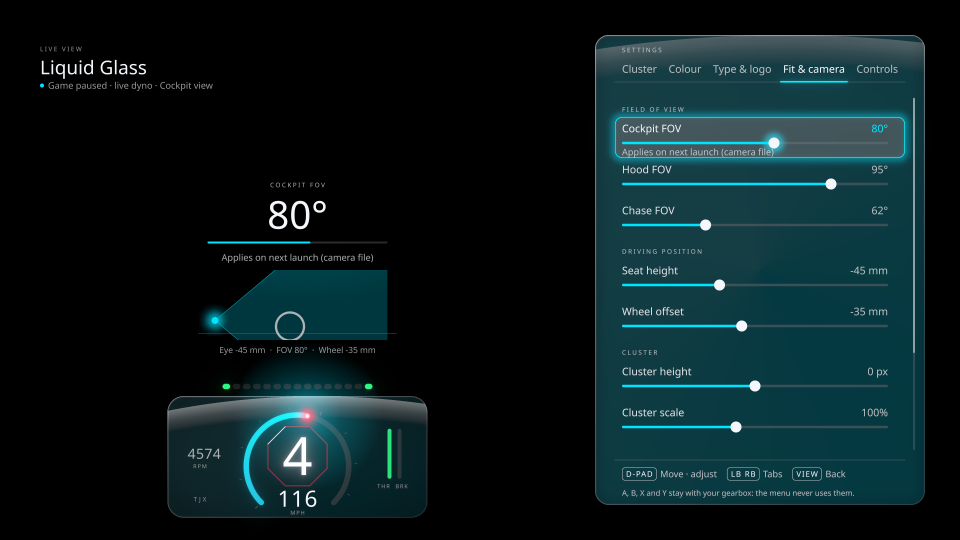
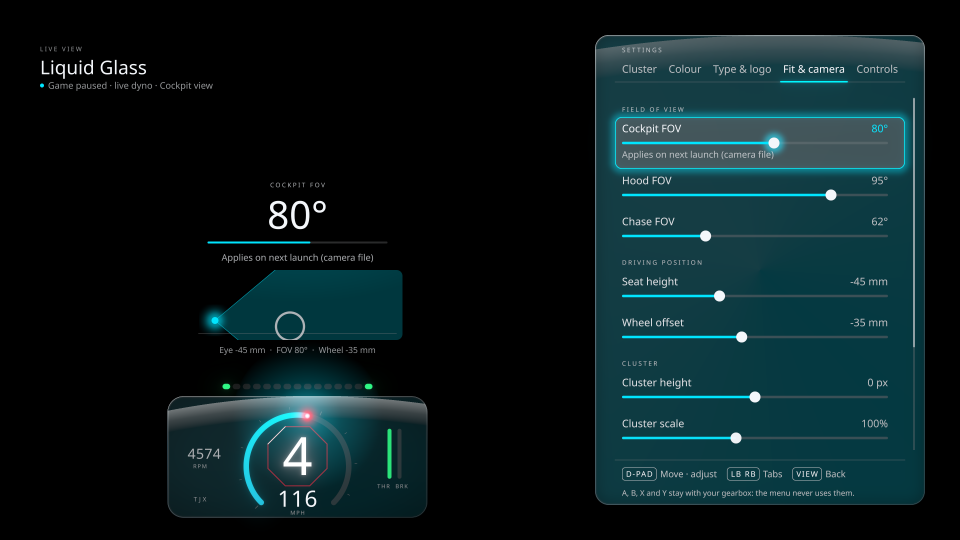
Phase 9: critique round 2 pass, fresh GPU numbers, OSD spec, board, FIGMA and AGENTS updates

Changed region(s): [[0.625, 0.2667, 0.9688, 0.8296], [0.4062, 0.5037, 0.4375, 0.6222]]

diff --git a/docs/design/boards/osd/index.html b/docs/design/boards/osd/index.html
@@ -23,7 +23,7 @@ code{color:var(--accent)}
 <p>The controller-first Liquid Glass OSD: the real selected cluster live on the left (live dyno while the game is paused, live telemetry when it flows), a glass control panel on the right, five tabs on LB/RB. Extends the Phase 3 direction (<a href="../../OSD_DIRECTION.md" style="color:var(--accent)">OSD_DIRECTION.md</a>). Spec: <a href="../../OSD.md" style="color:var(--accent)">OSD.md</a>.</p>
 </header>
 
-<h2>States (4K renders, GPU 1.18–1.32 ms each)</h2>
+<h2>States (4K renders, GPU 1.28–1.48 ms each)</h2>
 <div class="grid">
 <figure><img src="../../osd/01_cluster_carousel.png" alt="Cluster tab with carousel"><figcaption>Cluster · carousel of live thumbnails, focus echo in the live zone</figcaption></figure>
 <figure><img src="../../osd/02_cluster_hood_view.png" alt="Editing the hood view"><figcaption>Cluster · editing the Hood view (the live view follows)</figcaption></figure>
@@ -44,7 +44,7 @@ code{color:var(--accent)}
 <tr><td>Panel</td><td>x 2380–3700, y 140–2020, radius 56; right-aligned on wider screens. Glass tint alpha 64, frost 0.9, backdrop σ 28, crown sheen 28/255 ending above the tabs, OLED black 0.62 underneath.</td></tr>
 <tr><td>Text edge / value edge</td><td>One left text edge at 2488; every value, slider track and toggle ends at 3552; chevrons in the gutter to 3592.</td></tr>
 <tr><td>Tabs</td><td>Cap 30 (floor 26), y 276; accent underline 6 px on the <code>fast</code> spring, blooming.</td></tr>
-<tr><td>Rows</td><td>116 px (sliders 164, carousel 340, info 124); section headings 18 cap caps +24% tracking, 76 px above. Labels and values 30 cap; help 26 cap.</td></tr>
+<tr><td>Rows</td><td>116 px (sliders 164, carousel 340, info 124); the focused row grows to 148 (sliders 208) when it shows help; section headings 18 cap caps +24% tracking, 76 px above. Labels and values 30 cap; help 26 cap.</td></tr>
 <tr><td>Focus</td><td>White 0.07 lift, 3 px accent inner rim in a bloom layer, glow σ 14. Accent = palette accent unless within 25° of the warning red, then primary, then sapphire.</td></tr>
 <tr><td>Live zone</td><td>"LIVE VIEW" label, cluster name 54 cap, status 26 cap; focus echo: label 18 caps, value 110 cap, slider mirror 720 px, help 26 cap. Feathered black pools behind the echo (0.45) and the cluster (0.35).</td></tr>
 <tr><td>Hint bar</td><td>Keycaps 22 cap in 52 px chips, text 26 cap at y 1896; the gearbox line 22 cap at 1972.</td></tr>

diff --git a/AGENTS.md b/AGENTS.md
@@ -19,11 +19,11 @@ Read with: [ONBOARDING.md](ONBOARDING.md) (read first in every chat), [program/R
 | `crates/fh6-render` | Theme dispatch (camera 3 → cockpit, camera 4 → hood), layout kit, tokens, text, asset cache, OEM scrim and ambient wash | fh6-core, tiny-skia |
 | `crates/fh6-clusters` | The cluster registry (`registry::REGISTRY`, contract v2), kit clusters (`kit/`), shared components (`common/`), and the 29 v1 tiny-skia clusters behind `LegacyClusterRenderer` | fh6-core, fh6-kit, fh6-render |
 | `crates/fh6-kit` | GPU render kit: `Painter`, SDF shapes, paints, bloom, blur, Liquid Glass, MTSDF text, springs, palette engine, token binding, 2.5D camera, glTF mesh pass, fluid, particles, noise, `Cluster` / `FrameInput` / `Layout`; native and WebGPU | fh6-core, wgpu |
-| `crates/fh6-osd` | Unified OSD (4 tabs, live dyno preview, config binding, hold toggle) | fh6-core, fh6-render, fh6-clusters |
-| `crates/fh6-input` | XInput dynamic loading (System32 only, ordinal 100 for Guide), 125 Hz poller thread, button tracker, the single `HoldToggle`, Guide edge detection | fh6-core, `windows` |
-| `crates/fh6-win` | Overlay window (DirectComposition target, click-through, topmost), app message window + tray, foreground hook, quit signal, monitor/DPI, single instance, process list, DWM timing, screen capture, camera INI/XML patcher, `car_brands.json` binding | fh6-core, `windows`, raw-window-handle |
+| `crates/fh6-osd` | Controller-first Liquid Glass OSD (Phase 9, spec `docs/design/OSD.md`): 5-tab row model, navigation state machine, on-screen keyboard, button remapper, live view host and carousel thumbnails drawn with the kit, auto-pause (behind a `KeyboardInjector` trait), debounced config saver, live dyno, cockpit-fit seam | fh6-core, fh6-render, fh6-clusters, fh6-kit |
+| `crates/fh6-input` | XInput dynamic loading (System32 only, ordinal 100 for Guide), 125 Hz poller thread, button tracker, the single `HoldToggle` (suspended while the OSD has focus), press/release latches for the OSD, Guide edge detection, scripted pad (`--pad-script`) | fh6-core, `windows` |
+| `crates/fh6-win` | Overlay window (DirectComposition target, click-through, topmost), app message window + tray, foreground hook, quit signal, monitor/DPI, single instance, process list, DWM timing, screen capture, camera INI/XML patcher, `car_brands.json` binding, `SendInput` key taps (the OSD auto-pause ESC) | fh6-core, `windows`, raw-window-handle |
 | `crates/fh6-gpu` | wgpu 30 DX12 device, premultiplied overlay surface, offscreen target, `render_with` presentation for the kit, Phase 4 quad pipeline and test cluster (ADR 0001) | wgpu, bytemuck |
-| `crates/fh6-app` | Binaries `FH6_WheelDash` and `FH6_SteamLauncher`: thread wiring, render loop, latency stats and `--bench-seconds` report, args, launcher plan, remapper, status server (no `unsafe`) | all crates |
+| `crates/fh6-app` | Binaries `FH6_WheelDash` and `FH6_SteamLauncher`: thread wiring, render loop, latency stats and `--bench-seconds` report, args, launcher plan, OSD wiring (the remapper moved to fh6-osd), status server (no `unsafe`) | all crates |
 | `tools/preview-export` | Headless 4K GPU renders of every kit cluster × 4 states, thumbnails, measured badges, scrim and OSD → `mockups/` (`--legacy` adds the v1 clusters) | core, kit, gpu, clusters, render, osd |
 | `tools/mock-udp` | Synthetic telemetry sender (`--scenario` incl. `menu_pause`, `--port`, `--duration`, `--rate-hz`, `--race-on 0` or `1`) | std only |
 | `tools/parity-dump` | Decodes `tests/golden/packets/*.bin` and compares against the `.json` | fh6-core |
@@ -109,8 +109,8 @@ Known red before any new work: none since Phase 4 (see `docs/PROGRESS.md`). Chec
   - **Wheel-less Cockpit `[3]`:** the cluster sits in the black steering-column gap, anchored at `(1920, 1835)` in 4K. The in-car 3D factory binnacle behind it is masked by the domed OEM scrim (`OemDashOpaquePct`, 0–100%), so two dials never fight for attention.
   - **Hood `[4]`:** reached by pressing `RB` from `[3]`, anchored at `(1920, 1760)`. The scrim is forced to 0%, and `BonnetHudStyle` (default `Gt7HoodPro`) takes over: a wider, lower, frameless swept tach, a central gear/speed pod, 4-corner tyre-slip bars and a G meter.
 - **Translucent OLED OSD:**
-  - Opening it pauses the game (ESC via `SendInput` while `IsRaceOn == 1`) and shows a glass OSD (alpha 28..45) in the upper viewport. The live cluster keeps animating at the bottom, driven by the dyno preview.
-  - Toggle: hold View `0x0020` for 400 ms by default (`osd_toggle_mask`, `osd_hold_ms`), remappable in OSD tab 3.
+  - Opening it pauses the game (ESC via `SendInput` while `IsRaceOn == 1`, the game is in front and auto-pause is on) and shows the full-screen OSD (`docs/design/OSD.md`): the real cluster live on the left, driven by the dyno preview, and a glass control panel on the right.
+  - Toggle: hold View `0x0020` for 400 ms by default (`osd_toggle_mask`, `osd_hold_ms`), remappable in the OSD Controls tab.
   - Navigate only with the D-pad and LB/RB, never A/B/X/Y.
 
 ## Agent 2: Principal Rust Systems, Win32/XInput & Real-Time Graphics Engineer (`@Rust_Systems_Lead`)

diff --git a/docs/perf/osd.md b/docs/perf/osd.md
@@ -8,7 +8,7 @@ Target (Phase 9 MASTER_PROMPT): under 1.5 ms GPU for the whole OSD at 4K.
 
 | Item | Result | Target |
 |---|---|---|
-| GPU, whole OSD frame (live cluster, glass panel, rows, focus bloom, underlay dim, scrims) | 1.18–1.32 ms median over the 11 states; carousel (with 5 live thumbnails) 1.32 ms | < 1.5 ms: **met** |
+| GPU, whole OSD frame (live cluster, glass panel, rows, focus bloom, underlay dim, scrims) | 1.28–1.48 ms median over the 11 states; carousel (with 5 live thumbnails) 1.37 ms, FOV schematic 1.48 ms | < 1.5 ms: **met** (06 has 0.02 ms headroom) |
 | GPU, same frames before the optimisations below | 3.2 ms (8.0 ms with the carousel) | |
 | CPU per frame, OSD open (`--demo --open-osd`, 12 s) | 0.99 ms p50, 2.24 ms p99 | < 1 ms: **p50 met, p99 not met** |
 | CPU per frame, dash only (same run conditions) | 0.76 ms p50, 1.48 ms p99 | Phase 4/5 debt (p99) |
@@ -18,21 +18,21 @@ The extra CPU with the OSD open is almost all `Kit::render` packing and wgpu rec
 
 ## GPU per state (generated by `preview-export`)
 
-Whole-frame GPU time from timestamp queries around every pass (shape passes, glass backdrop, bloom, resolve). 100 frames are submitted back to back first so the laptop GPU clocks up, then 20 frames are timed one by one. Median and minimum in ms. One run, GPU at 10% load from other work. 3 layer segments per frame (live cluster glass, panel glass), 27 draw calls (35 with the carousel).
+Whole-frame GPU time from timestamp queries around every pass (shape passes, glass backdrop, bloom, resolve). 100 frames are submitted back to back first so the laptop GPU clocks up, then 20 frames are timed one by one. Median and minimum in ms. One run after the critique round 2 fixes (taller focused rows with help, a 1400 px schematic), GPU idle (1%, 32 W) before the run. 3 layer segments per frame (live cluster glass, panel glass), 27 draw calls (35 with the carousel).
 
 | State | GPU median | GPU min | draws |
 |---|---|---|---|
-| 01 Cluster tab, carousel focused | 1.322 | 1.228 | 35 |
-| 02 Cluster tab, editing the Hood view | 1.225 | 1.210 | 35 |
-| 03 Colour, custom, hue slider | 1.232 | 1.181 | 27 |
-| 04 Colour, random | 1.200 | 1.170 | 27 |
-| 05 Type & logo | 1.197 | 1.166 | 27 |
-| 06 Fit & camera, FOV + schematic | 1.303 | 1.257 | 27 |
-| 07 Fit & camera, cluster height | 1.204 | 1.194 | 27 |
-| 08 Fit & camera, dash blocker (scrolled) | 1.265 | 1.202 | 27 |
-| 09 Controls | 1.180 | 1.176 | 27 |
-| 10 On-screen keyboard | 1.195 | 1.186 | 27 |
-| 11 Remap capture | 1.185 | 1.181 | 27 |
+| 01 Cluster tab, carousel focused | 1.373 | 1.274 | 35 |
+| 02 Cluster tab, editing the Hood view | 1.359 | 1.324 | 35 |
+| 03 Colour, custom, hue slider | 1.311 | 1.242 | 27 |
+| 04 Colour, random | 1.303 | 1.247 | 27 |
+| 05 Type & logo | 1.298 | 1.232 | 27 |
+| 06 Fit & camera, FOV + schematic | 1.478 | 1.417 | 27 |
+| 07 Fit & camera, cluster height | 1.283 | 1.231 | 27 |
+| 08 Fit & camera, dash blocker (scrolled) | 1.313 | 1.257 | 27 |
+| 09 Controls | 1.303 | 1.238 | 27 |
+| 10 On-screen keyboard | 1.286 | 1.217 | 27 |
+| 11 Remap capture | 1.276 | 1.223 | 27 |
 
 **Measurement caveat.** This GPU is shared with other work on the machine. During one session another process held it at 98% (127 W, 87 °C) and the same frames read 2.3–3.5 ms; with the GPU at 11–16% they read as above. `preview-export` now prints the minimum next to the median so contention is visible: when the two are close (as in the table), the number is clean.
 
@@ -42,7 +42,7 @@ Whole-frame GPU time from timestamp queries around every pass (shape passes, gla
 2. **The dim moved into the resolve.** A full-screen black shape blends into two HDR work targets at 4K (about 0.9 ms). The new `Kit::set_underlay(alpha)` clears the target to premultiplied black and composites it under everything in the resolve pass the frame already runs: 1.64 → 0.76 ms with otherwise identical content.
 3. **Warm-up before timing.** Timing single frames that each wait for readback let the laptop GPU drop clocks between frames (2–6 ms noise). Burst first, then time.
 
-With the panel's own backdrop blur kept (the brief asks for blur behind the panel), the critique's legibility fixes (black under the panel, feathered scrims behind the focus echo and the live cluster) and bloom on the focus ring and tab underline, the frame settles at 1.18–1.32 ms.
+With the panel's own backdrop blur kept (the brief asks for blur behind the panel), the critique's legibility fixes (black under the panel, feathered scrims behind the focus echo and the live cluster) and bloom on the focus ring and tab underline, the frame settled at 1.18–1.32 ms. The round 2 fixes (the focused row grows to hold its help line, and the schematic is wider) moved it to 1.28–1.48 ms. The FOV schematic state (06) is the most expensive, with little headroom; its wedge and scrim are the first things to trim if a later phase adds to the OSD.
 
 Measured costs of individual pieces (back-to-back A/B on an idle GPU): panel backdrop blur 0.25 ms, bloom 0.2 ms, panel black base 0.07 ms, both scrims about 0.2 ms.
 

diff --git a/docs/design/OSD.md b/docs/design/OSD.md
@@ -6,7 +6,7 @@ Figma: the page could not be built. The remote Figma MCP answered `get_metadata`
 
 ## Layout
 - **Live zone (left, about 60%).** The real selected cluster at its real height and scale, gliding from its normal anchor to the live-zone centre (`(2380 + extra width) / 2`) when the OSD opens. Header: "LIVE VIEW", the cluster name, and the data source ("Game paused · live dyno" or "Live telemetry") with the edited view. Under the header, a **focus echo**: the focused row's label and value in 110 px type, a slider mirror, the row's help line. Camera rows add a side-view schematic (eye at seat height, FOV wedge, wheel); cluster height adds a dashed default-height line.
-- **Panel (right).** Glass at x 2380–3700, y 140–2020, radius 56, right-aligned on wider screens. Five tabs: Cluster · Colour · Type & logo · Fit & camera · Controls. Rows scroll on a spring and fade at the viewport edges. Hint bar and the gearbox line at the bottom.
+- **Panel (right).** Glass at x 2380–3700, y 140–2020, radius 56, right-aligned on wider screens. Five tabs: Cluster · Colour · Type & logo · Fit & camera · Controls. Rows are 116 px (sliders 164, carousel 340, info 124); the focused row grows to 148 px (sliders 208) when it has a help line, so the help sits inside the focus ring. Rows scroll on a spring and fade at the viewport edges. Hint bar and the gearbox line at the bottom.
 - **Dim.** The game is dimmed 62% through the kit underlay. The direction asked for about 45% plus a blur; the overlay cannot blur a game it does not capture, so it dims harder and adds feathered black pools behind the echo (45%) and the live cluster (35%).
 
 ## Rows
@@ -31,4 +31,4 @@ D-pad moves and adjusts (repeat after 280 ms, every 65 ms, every 25 ms after 900
 Open 200 ms (fade and a 64 px slide), cluster glide on the `default` spring, focus ring and tab underline on `fast`, scroll on `default`, a 150 ms crossfade on a tab change.
 
 ## Critique
-Round 1 (independent `ui-ux-designer` review of the renders): fail, with six must-fixes. Text below the 26 px floor, the backdrop on bright frames, rows hard-clipped by the scroll viewport, a ragged value edge, the crown sheen behind the header, and the missing font pack. All six were fixed or waived (fonts: see PROGRESS). Round 2 result and the carried-over items are in `program/phases/09-osd/HANDOVER.md`.
+Round 1 (independent `ui-ux-designer` review of the renders): fail, with six must-fixes. Text below the 26 px floor, the backdrop on bright frames, rows hard-clipped by the scroll viewport, a ragged value edge, the crown sheen behind the header, and the missing font pack. All six were fixed or waived (fonts: see PROGRESS). Round 2: one must-fix, the help line overlapping the focus ring on focused rows. The focused row now grows to hold it (above). Re-review of 02, 06 and 07: **pass** for the Phase 9 exit. Carried over (not blocking): a check over the real pause menu, LB/RB chips in the tab row, the blocker outline preview, a live preview of the draft name. See `program/phases/09-osd/HANDOVER.md`.

diff --git a/docs/design/FIGMA.md b/docs/design/FIGMA.md
@@ -63,6 +63,8 @@ The HTML boards therefore stay the source of truth. Still to do, in order:
 3. **Page `1:5`:** the OSD and configurator direction frames (`docs/design/directions/*.png`), the scrim-fit frames (`docs/design/scrim/*.png`), and one Section per catalog row for Phase 7.
 4. **Mirror tokens v3.2** into the Palette and Roles variables.
 
+**Phase 9 retry (2026-11-22):** the remote MCP answered `get_metadata` once, then returned the same Starter-plan tool-call limit on the first `use_figma` call, so the OSD page could not be built. Add to the list above: 5. **Page `1:5`, OSD:** the 11 renders in `docs/design/osd/` with the grid, type and navigation tables from [boards/osd/index.html](boards/osd/index.html).
+
 Unblock by upgrading the Figma plan (Professional removes the 3-page and 1-mode limits and raises the MCP cap) or by waiting for the cap to reset; the conductor or the Phase 7 setup chat can then run steps 1–4.
 
 ## HTML boards (authoritative visuals)
@@ -72,6 +74,7 @@ Unblock by upgrading the Figma plan (Professional removes the 3-page and 1-mode 
 | `boards/families/` | 7 template boards | `docs/design/families/<family>-template.png` |
 | `boards/scrim/` | 3 scrim-fit boards over `assets/reference/*.jpg` | `docs/design/scrim/*.png` |
 | `boards/directions/` | OSD and configurator directions | `docs/design/directions/*.png` |
+| `boards/osd/` | Phase 9 OSD: every state, grid, type and navigation | `docs/design/osd/*.png` (real kit renders from `preview-export`, 960×540) |
 | `boards/index.html` | Gallery of everything above | — |
 
 **Render a board to PNG** (headless Edge or Chrome on Windows; fonts load from Google Fonts, so stay online):
